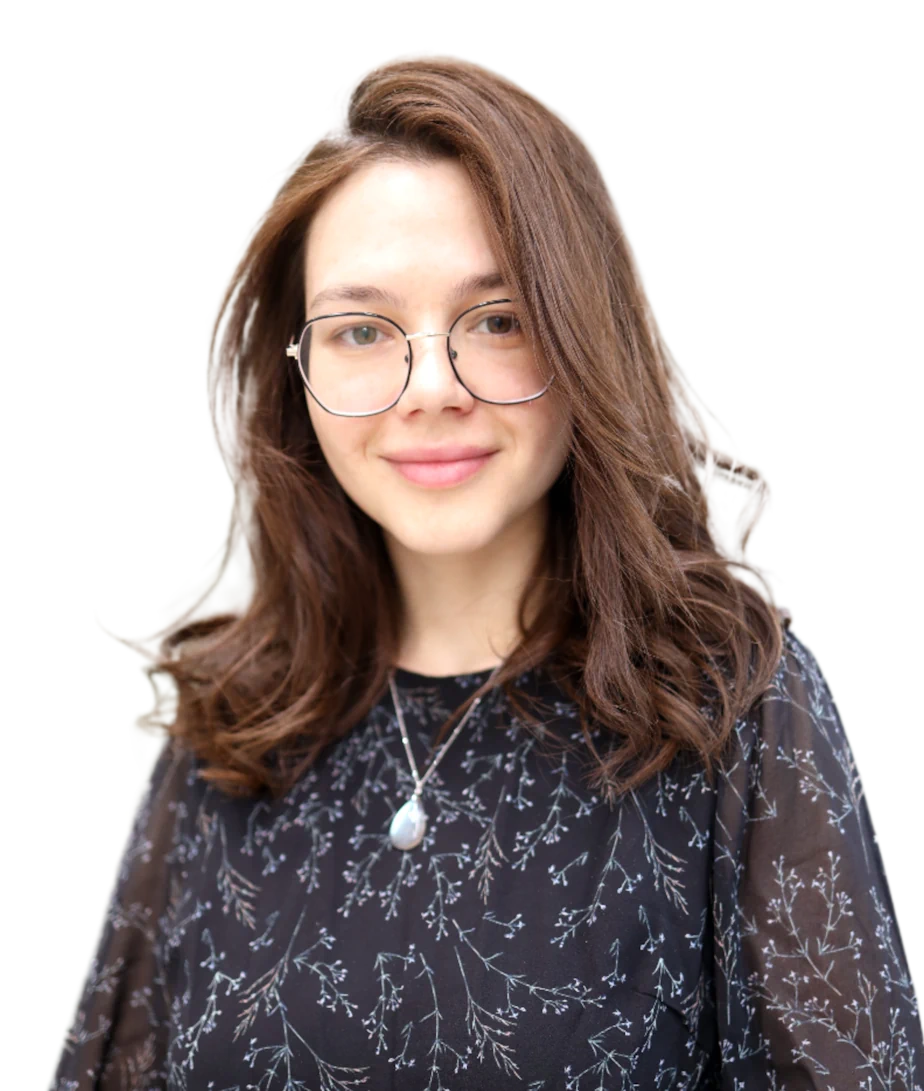
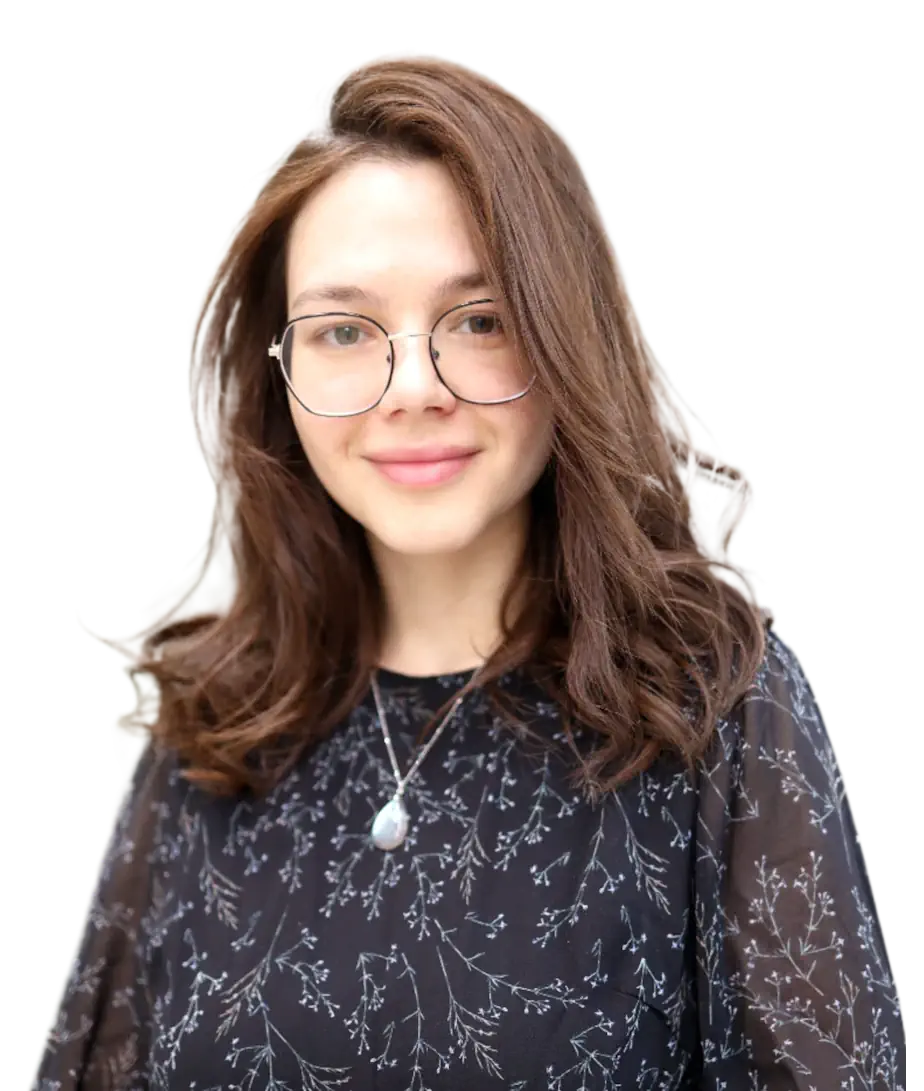
images redesign 2

diff --git a/components/TeamBlock/TeamBlock.jsx b/components/TeamBlock/TeamBlock.jsx
@@ -1,4 +1,4 @@
-import React from "react";
+import React, { useState } from "react";
 import styles from "./TeamBlock.module.css";
 import shadowStyles from "../../styles/shadow.module.css";
 import { teamContent } from "../../content/team.js";
@@ -14,39 +14,48 @@ export const TeamBlock = () => {
       columns={3}
       customItemStyles={{ padding: 0, background: "transparent", boxShadow: "none", overflow: "visible" }}
       content={teamContent.blocks}
-      renderItem={(person, i) => (
-        <div
-          itemScope
-          itemType="http://schema.org/Person"
-          key={person.name}
-          as="div"
-          className={styles.person + ' ' + styles[`person_background_${i + 1}`]}
-        >
-   
-            <Image
-              alt="Портрет члена команды"
-              className={`${styles["person__avatar"]} ${shadowStyles.shadow}`}
-              src={person.image}
-              width={100}
-              height={100}
-            />
-
-          <p className={styles["person__info"]}>
-            <span itemProp="name" className={styles["person__name"]}>
-              {person.name}
-            </span>
-            <span
-              itemProp="disambiguatingDescription"
-              className={styles["person__profession"]}
-              style={{ display: "none", paddings: "20px" }}
-            >
-              {person.profession}
-            </span>
-            <span className={styles["person__bio"]}>{person.bio}</span>
-          </p>
-        </div>
-      )}
+      renderItem={(person, i) => {
+        return <Person person={person} i={i}/>
+      }}
     />
     </div>
   );
 };
+
+const Person = ({ person, i }) => {
+  const [loaded, setLoaded] = useState(false);
+
+  return (
+    <div
+    itemScope
+    itemType="http://schema.org/Person"
+    key={person.name}
+    as="div"
+    className={styles.person + ' ' + styles[`person_background_${i + 1}`]  + ' ' + (loaded ? styles.loaded : '')}
+  >
+    <div className={styles["person__avatar-container"]}>
+      <Image
+        alt="Портрет члена команды"
+        className={`${styles["person__avatar"]} ${shadowStyles.shadow}`}
+        src={person.image}
+        width={100}
+        height={100}
+        onLoad={() => setLoaded(true)}
+      />
+    </div>
+    <p className={styles["person__info"]}>
+      <span itemProp="name" className={styles["person__name"]}>
+        {person.name}
+      </span>
+      <span
+        itemProp="disambiguatingDescription"
+        className={styles["person__profession"]}
+        style={{ display: "none", paddings: "20px" }}
+      >
+        {person.profession}
+      </span>
+      <span className={styles["person__bio"]}>{person.bio}</span>
+    </p>
+  </div>
+  )
+}

diff --git a/components/TeamBlock/TeamBlock.module.css b/components/TeamBlock/TeamBlock.module.css
@@ -22,8 +22,13 @@
     padding: 0;
     position: relative;
     aspect-ratio: 1/ 1.1;
+    opacity: 0;
+    transition: all 800ms ease-in-out;
 }
 
+.loaded {
+    opacity: 1;
+}
 
 
 .person__avatar {
